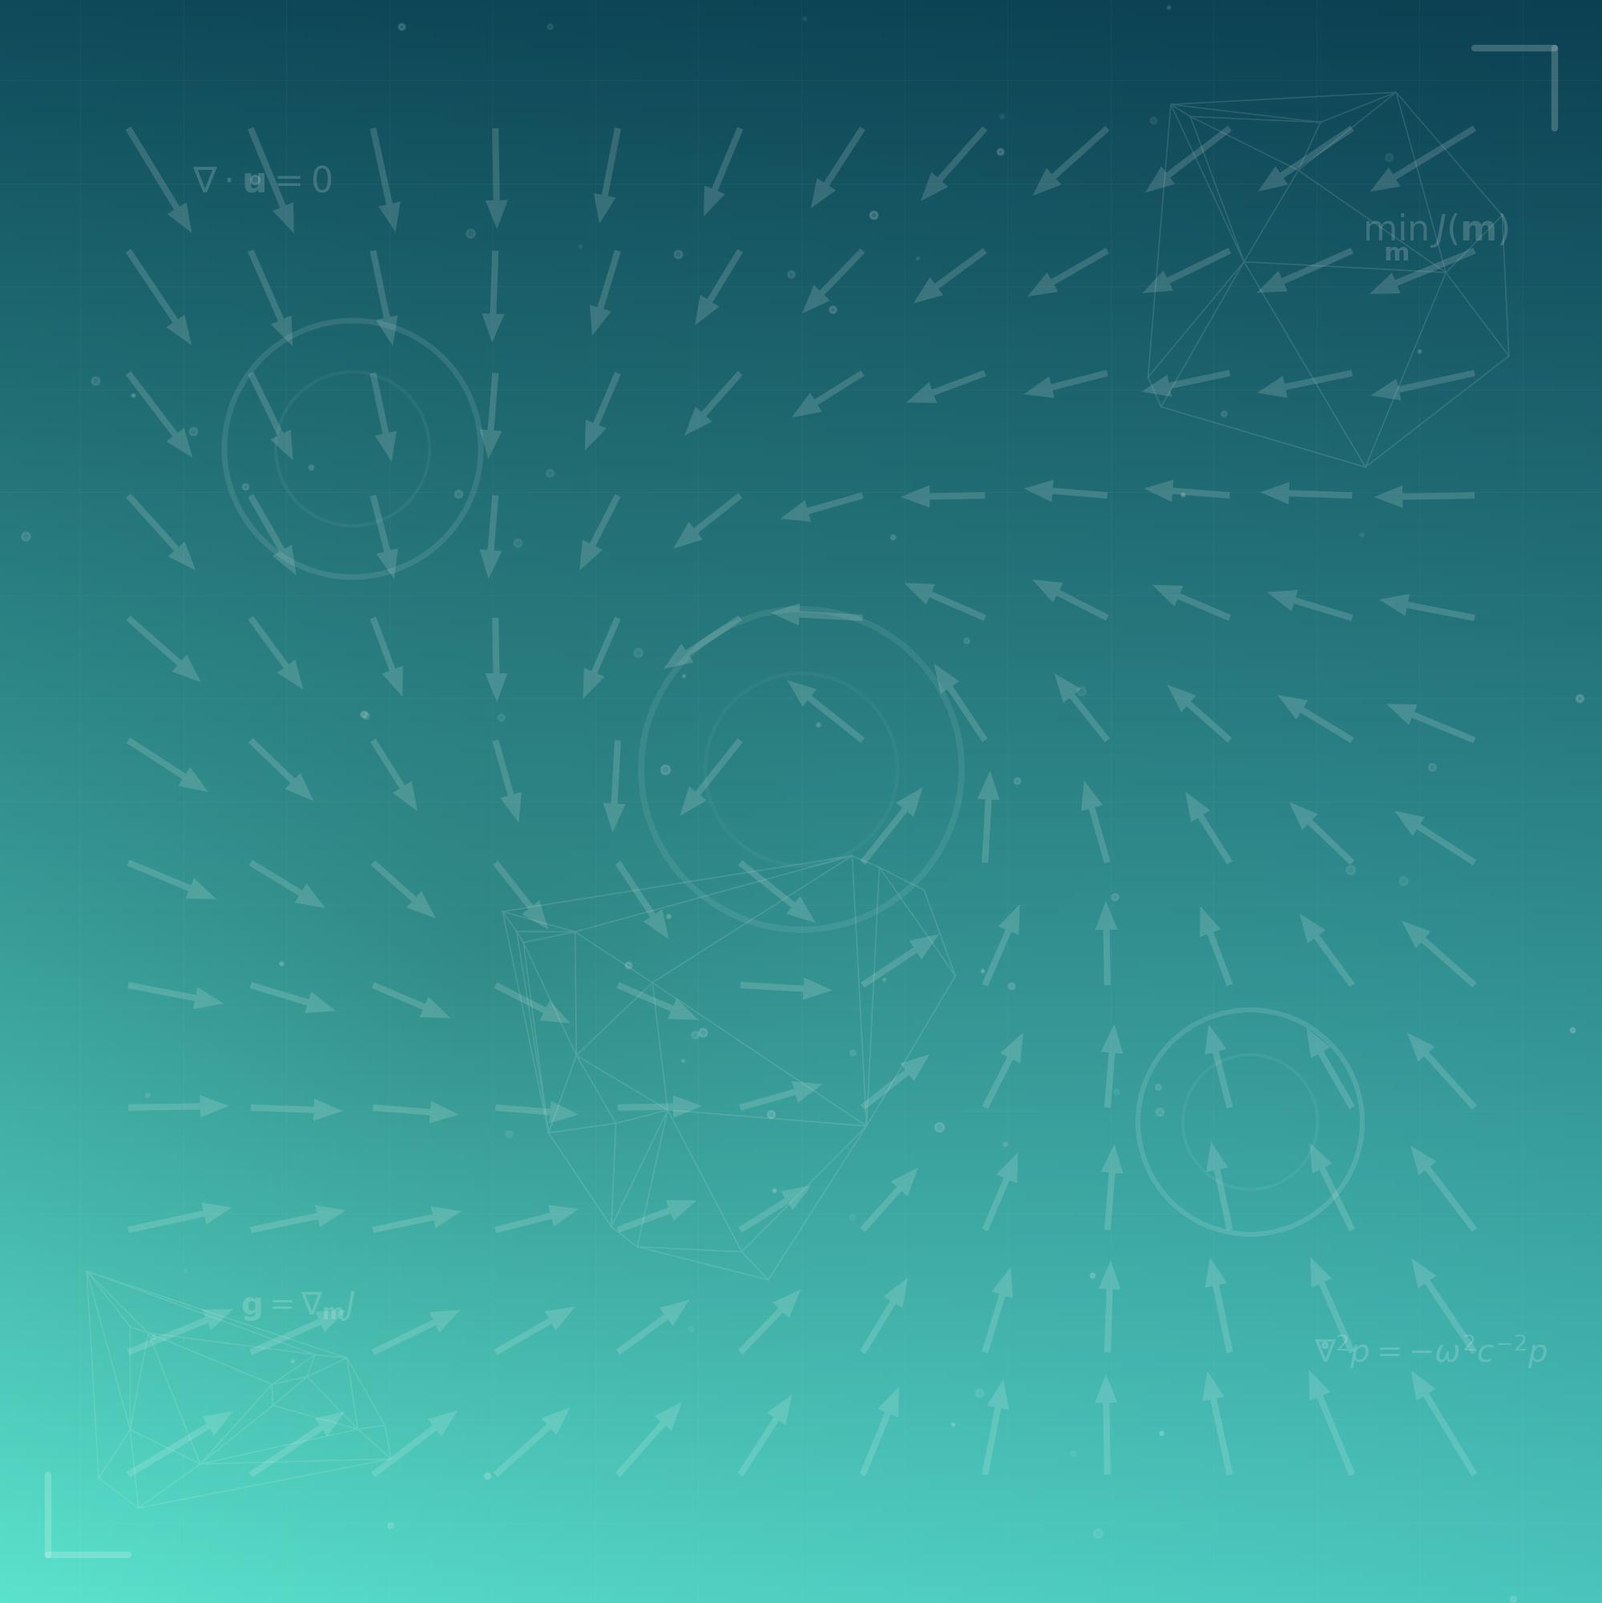
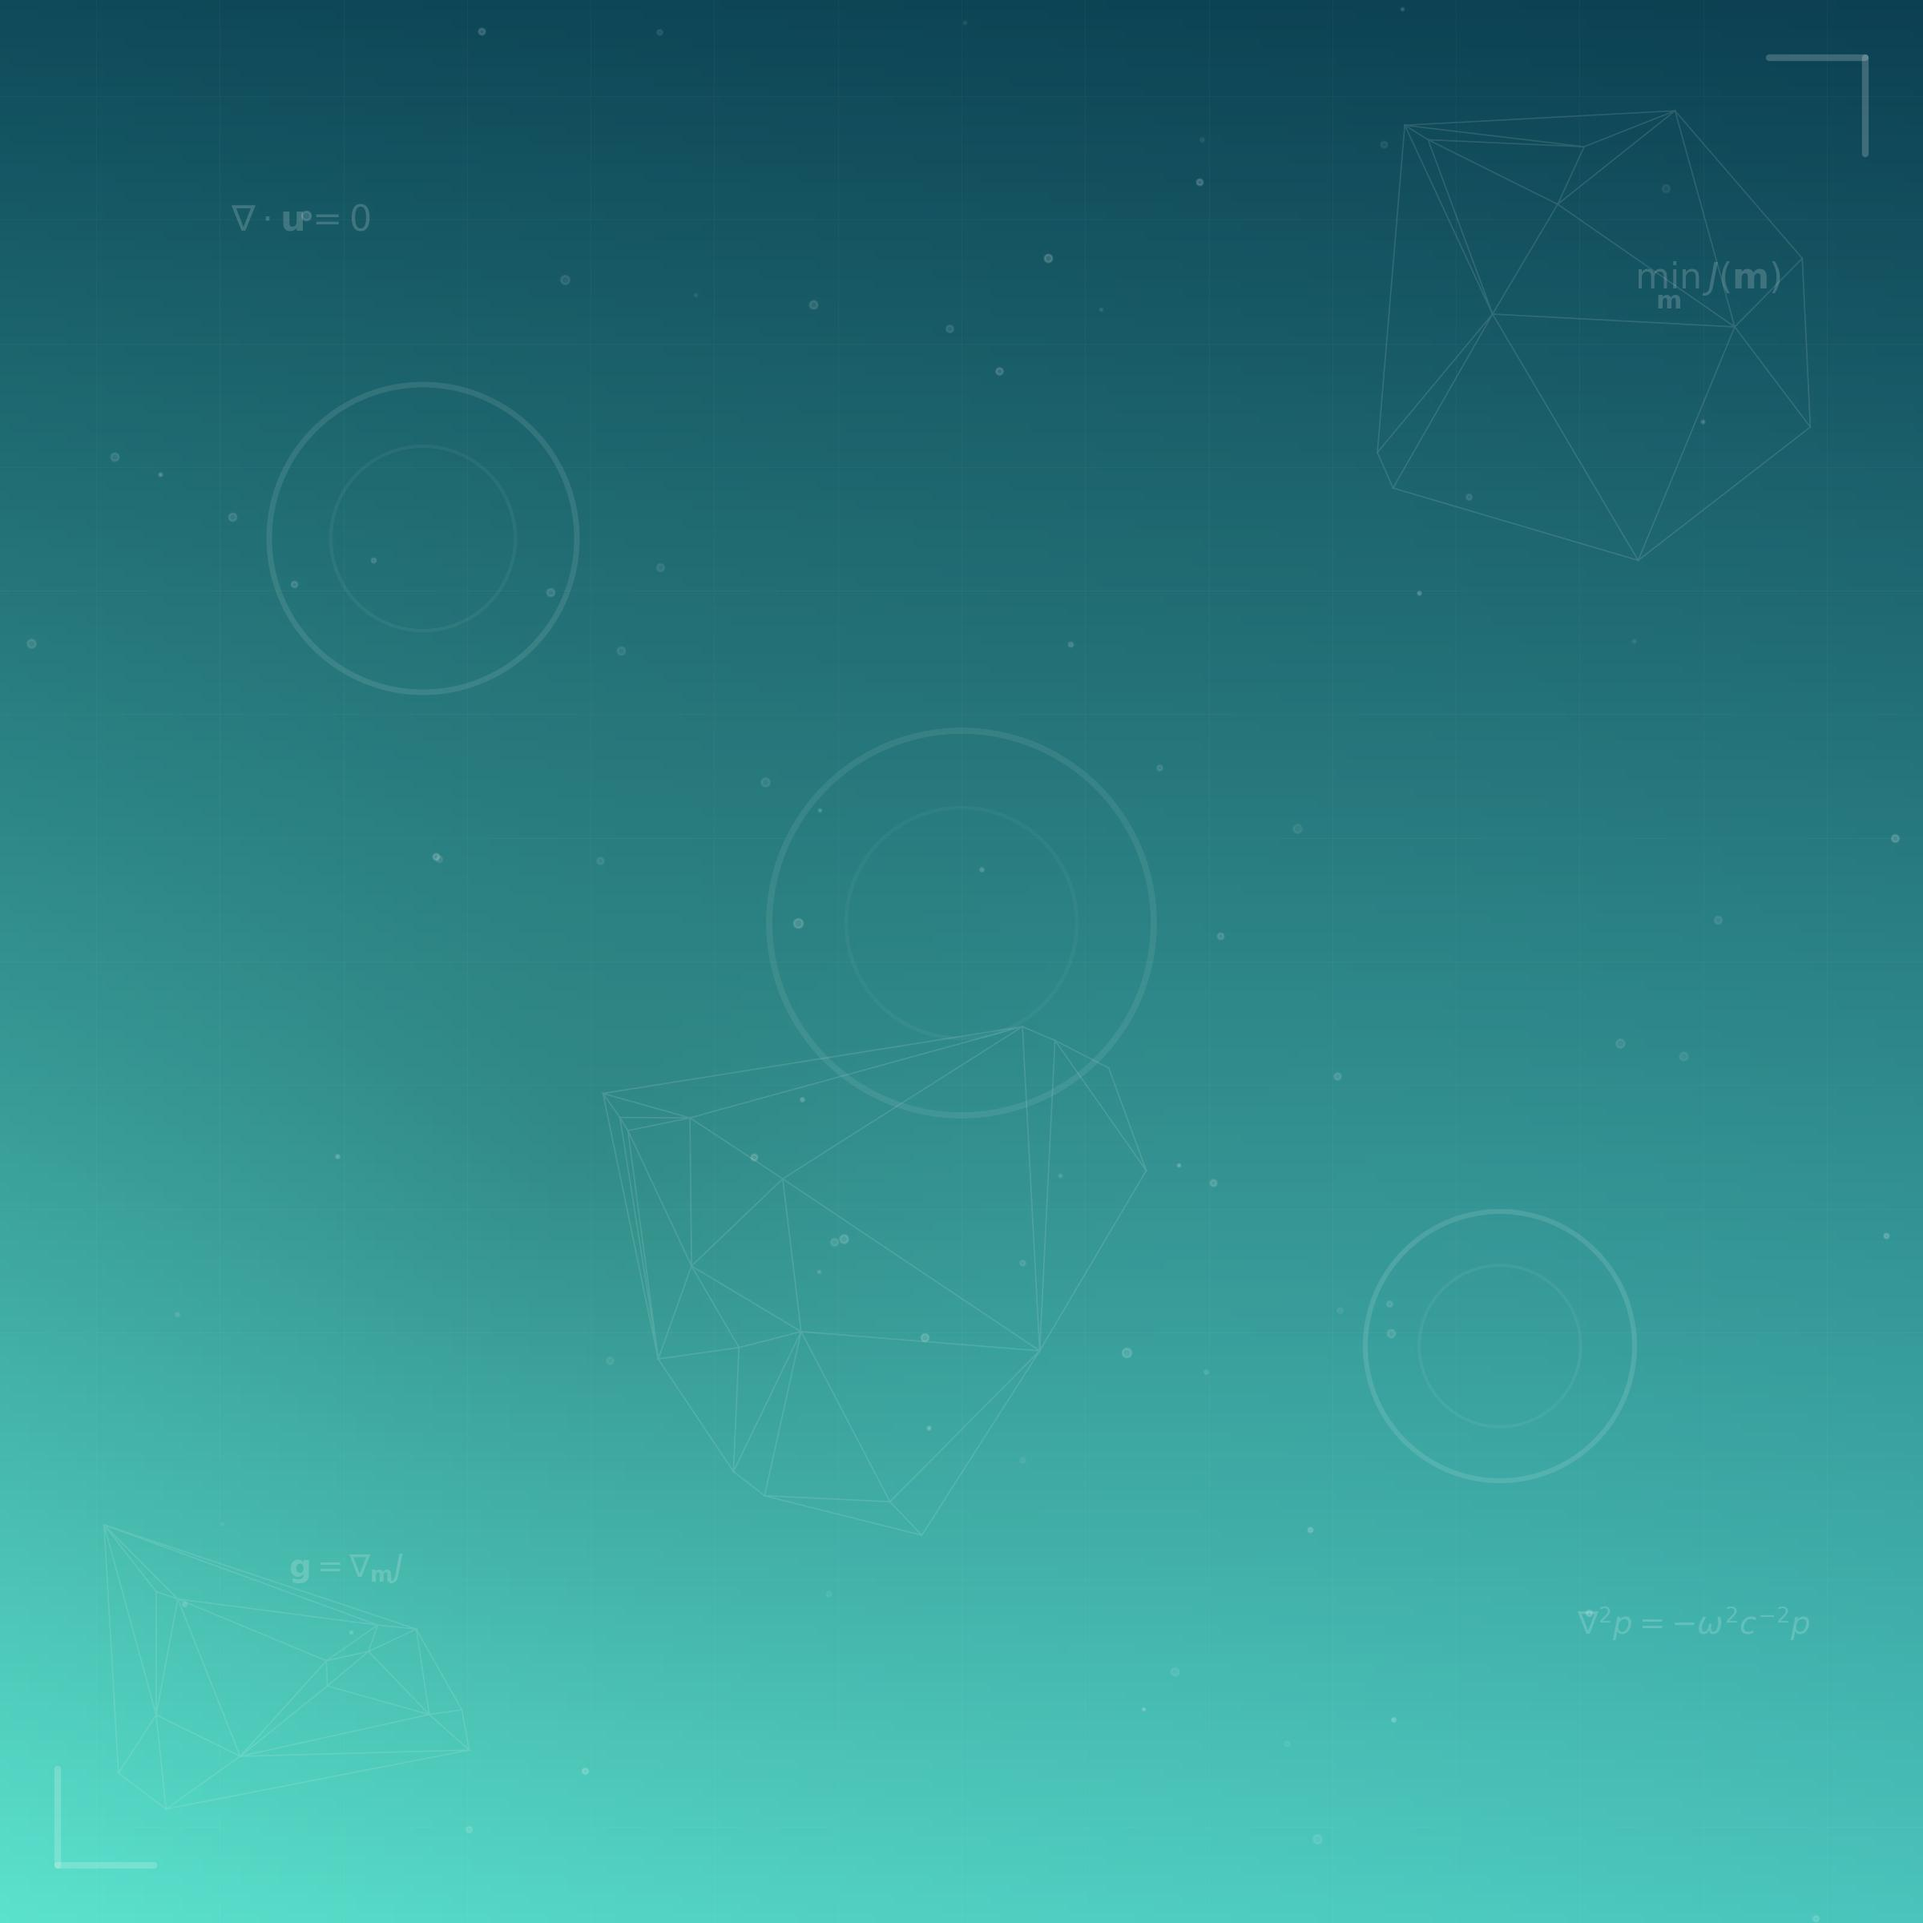
Update background to 3:1 aspect ratio (36x12) for extra-wide display

diff --git a/generate_background_v2.py b/generate_background_v2.py
@@ -11,8 +11,8 @@ import matplotlib.pyplot as plt
 from matplotlib.patches import Circle
 from matplotlib.tri import Triangulation
 
-# Set dimensions to match typical browser aspect ratio (wider)
-fig = plt.figure(figsize=(24, 10), dpi=200)
+# Set dimensions for extra-wide display (3:1 aspect ratio)
+fig = plt.figure(figsize=(36, 12), dpi=200)
 ax = plt.gca()
 
 # Create sophisticated multi-layer gradient background
@@ -54,26 +54,7 @@ for bounds, n_pts in mesh_regions:
     triang = Triangulation(mesh_x, mesh_y)
     ax.triplot(triang, color='white', linewidth=0.6, alpha=0.12, linestyle='-')
 
-# Add gradient flow field - more sophisticated pattern
-Y_grid, X_grid = np.mgrid[0.8:9.2:12j, 0.8:9.2:12j]
-
-# Create vortex-like flow pattern (typical in CFD)
-center_flow = np.array([5.0, 5.0])
-dx = X_grid - center_flow[0]
-dy = Y_grid - center_flow[1]
-r = np.sqrt(dx**2 + dy**2) + 0.1
-
-# Spiral flow pattern
-U = -dy / r * np.exp(-r / 4)
-V = dx / r * np.exp(-r / 4)
-
-# Add gradient component
-U += -0.15 * dx
-V += -0.15 * dy
-
-ax.quiver(X_grid, Y_grid, U, V,
-          color='white', alpha=0.15, width=0.004,
-          scale=12, headwidth=3.5, headlength=4.5)
+# Vector field removed for cleaner design
 
 # Add elegant mathematical annotations with better positioning
 equations = [
